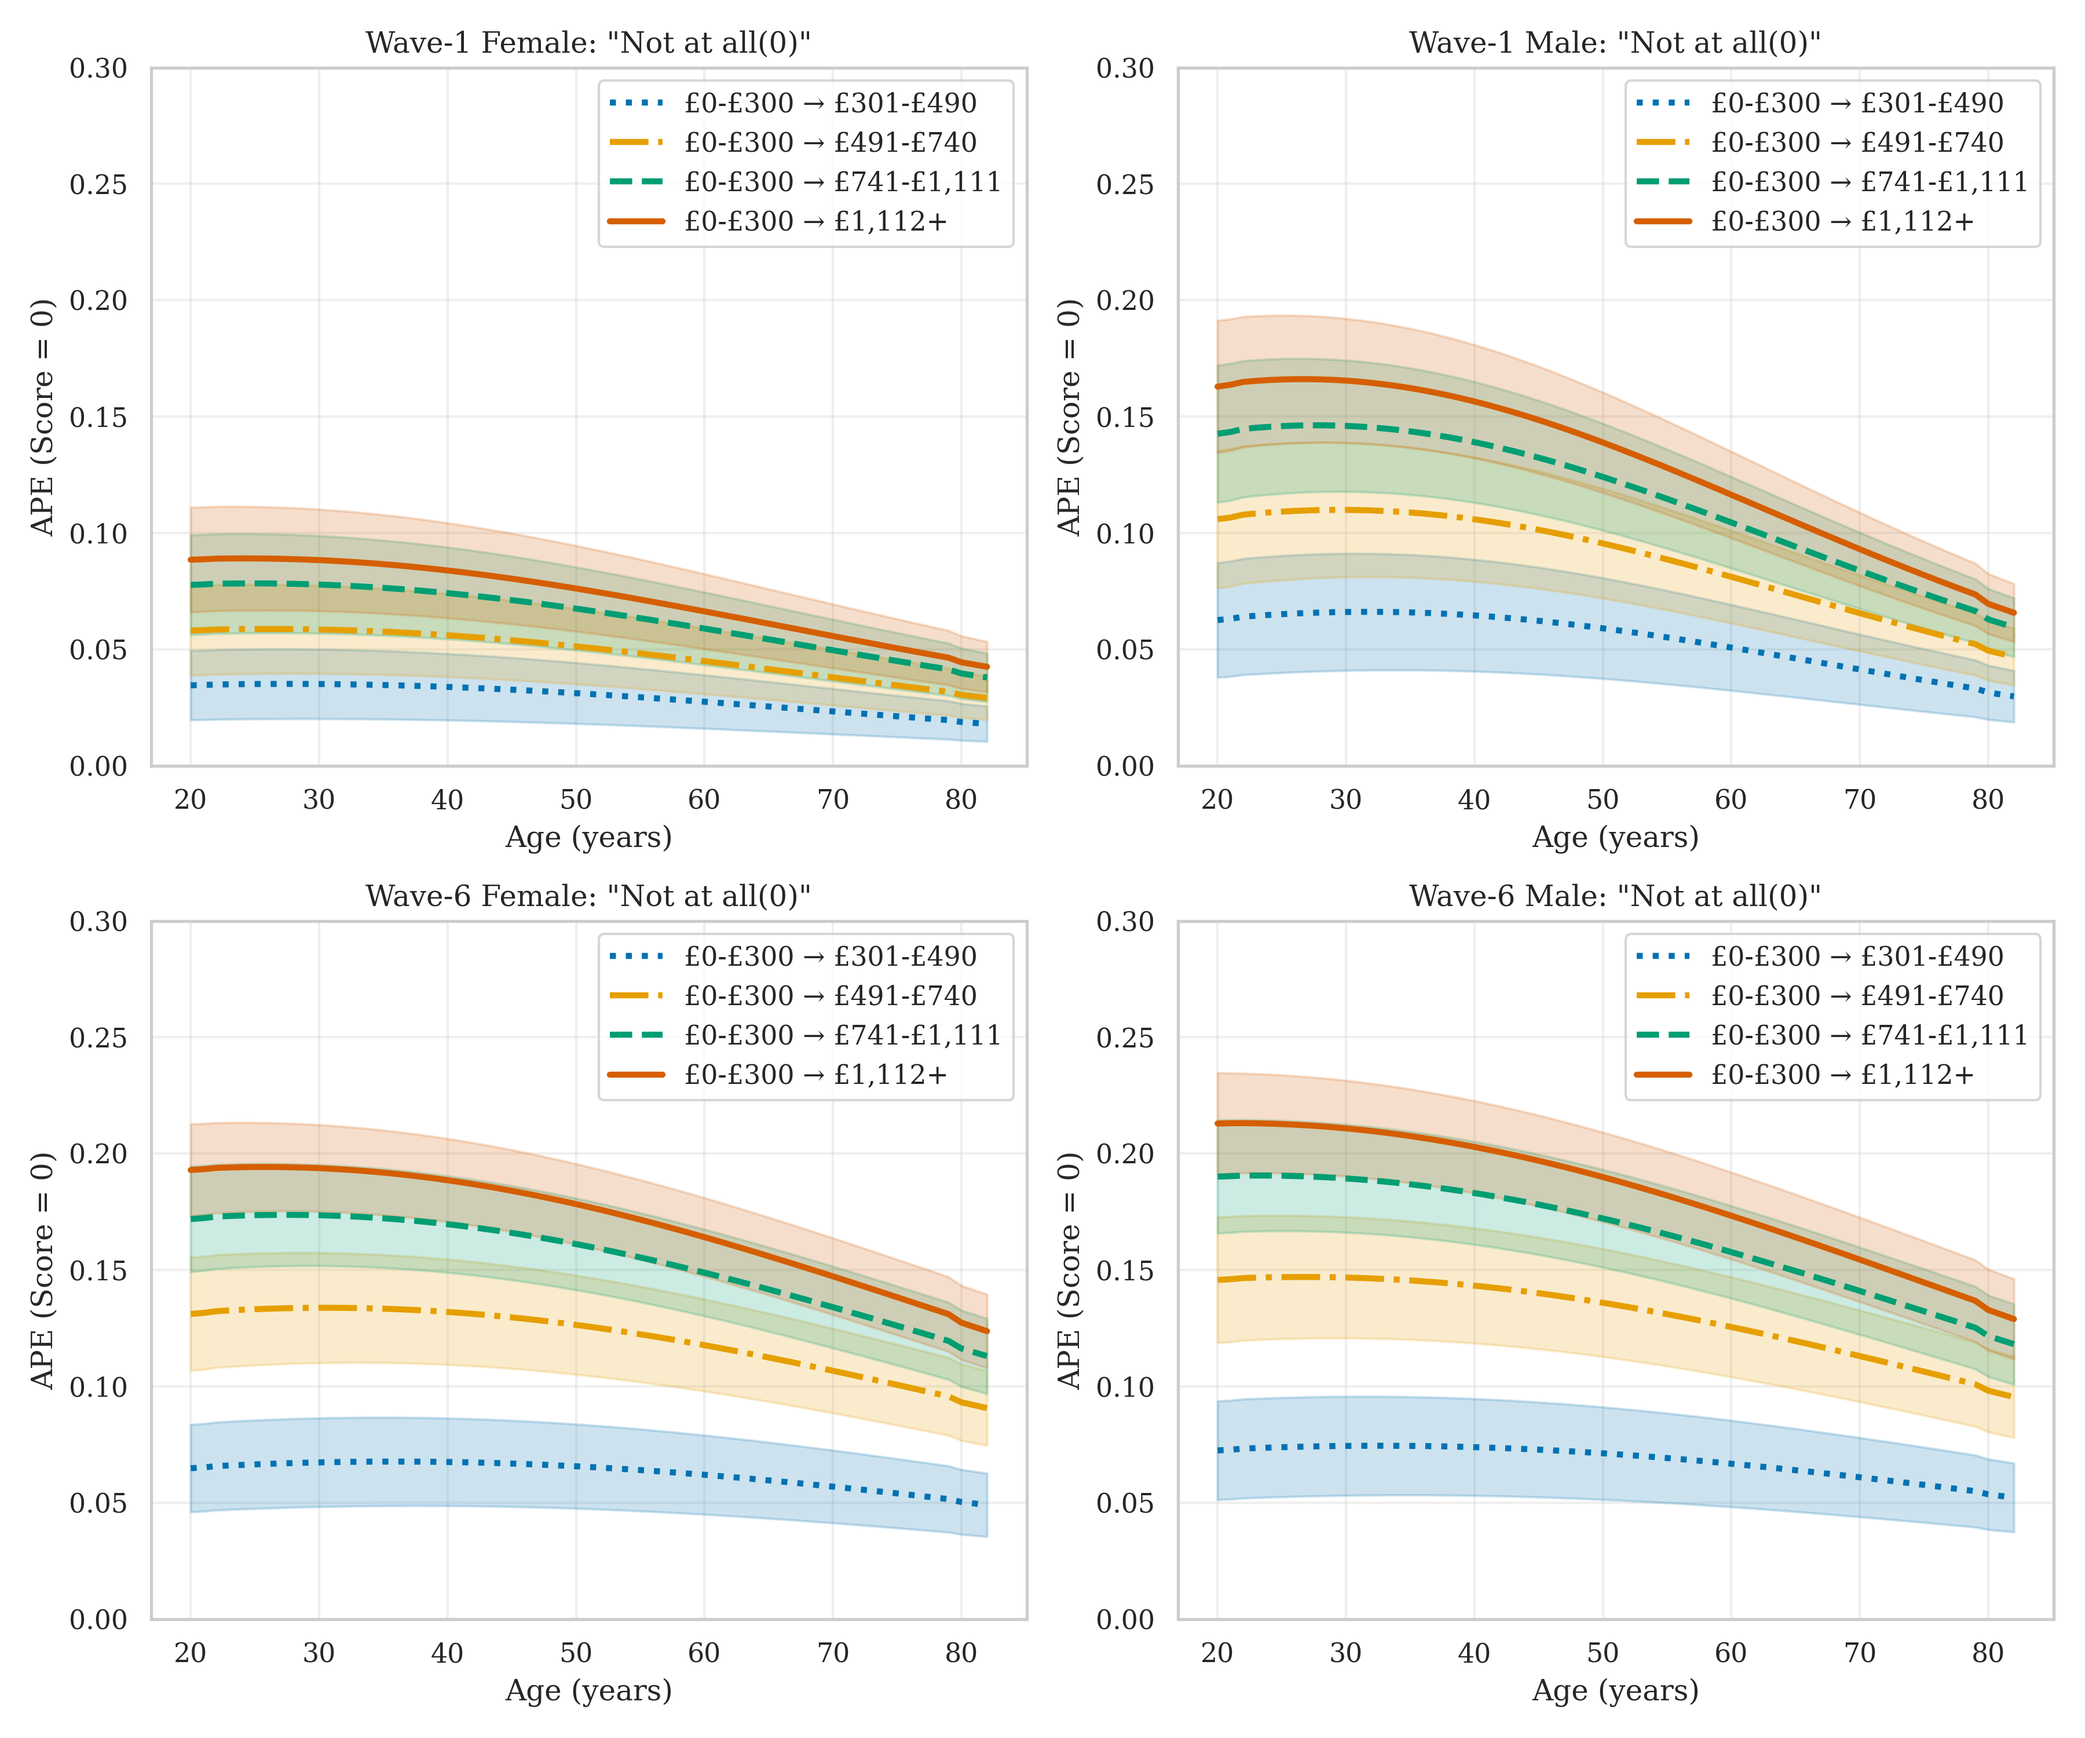
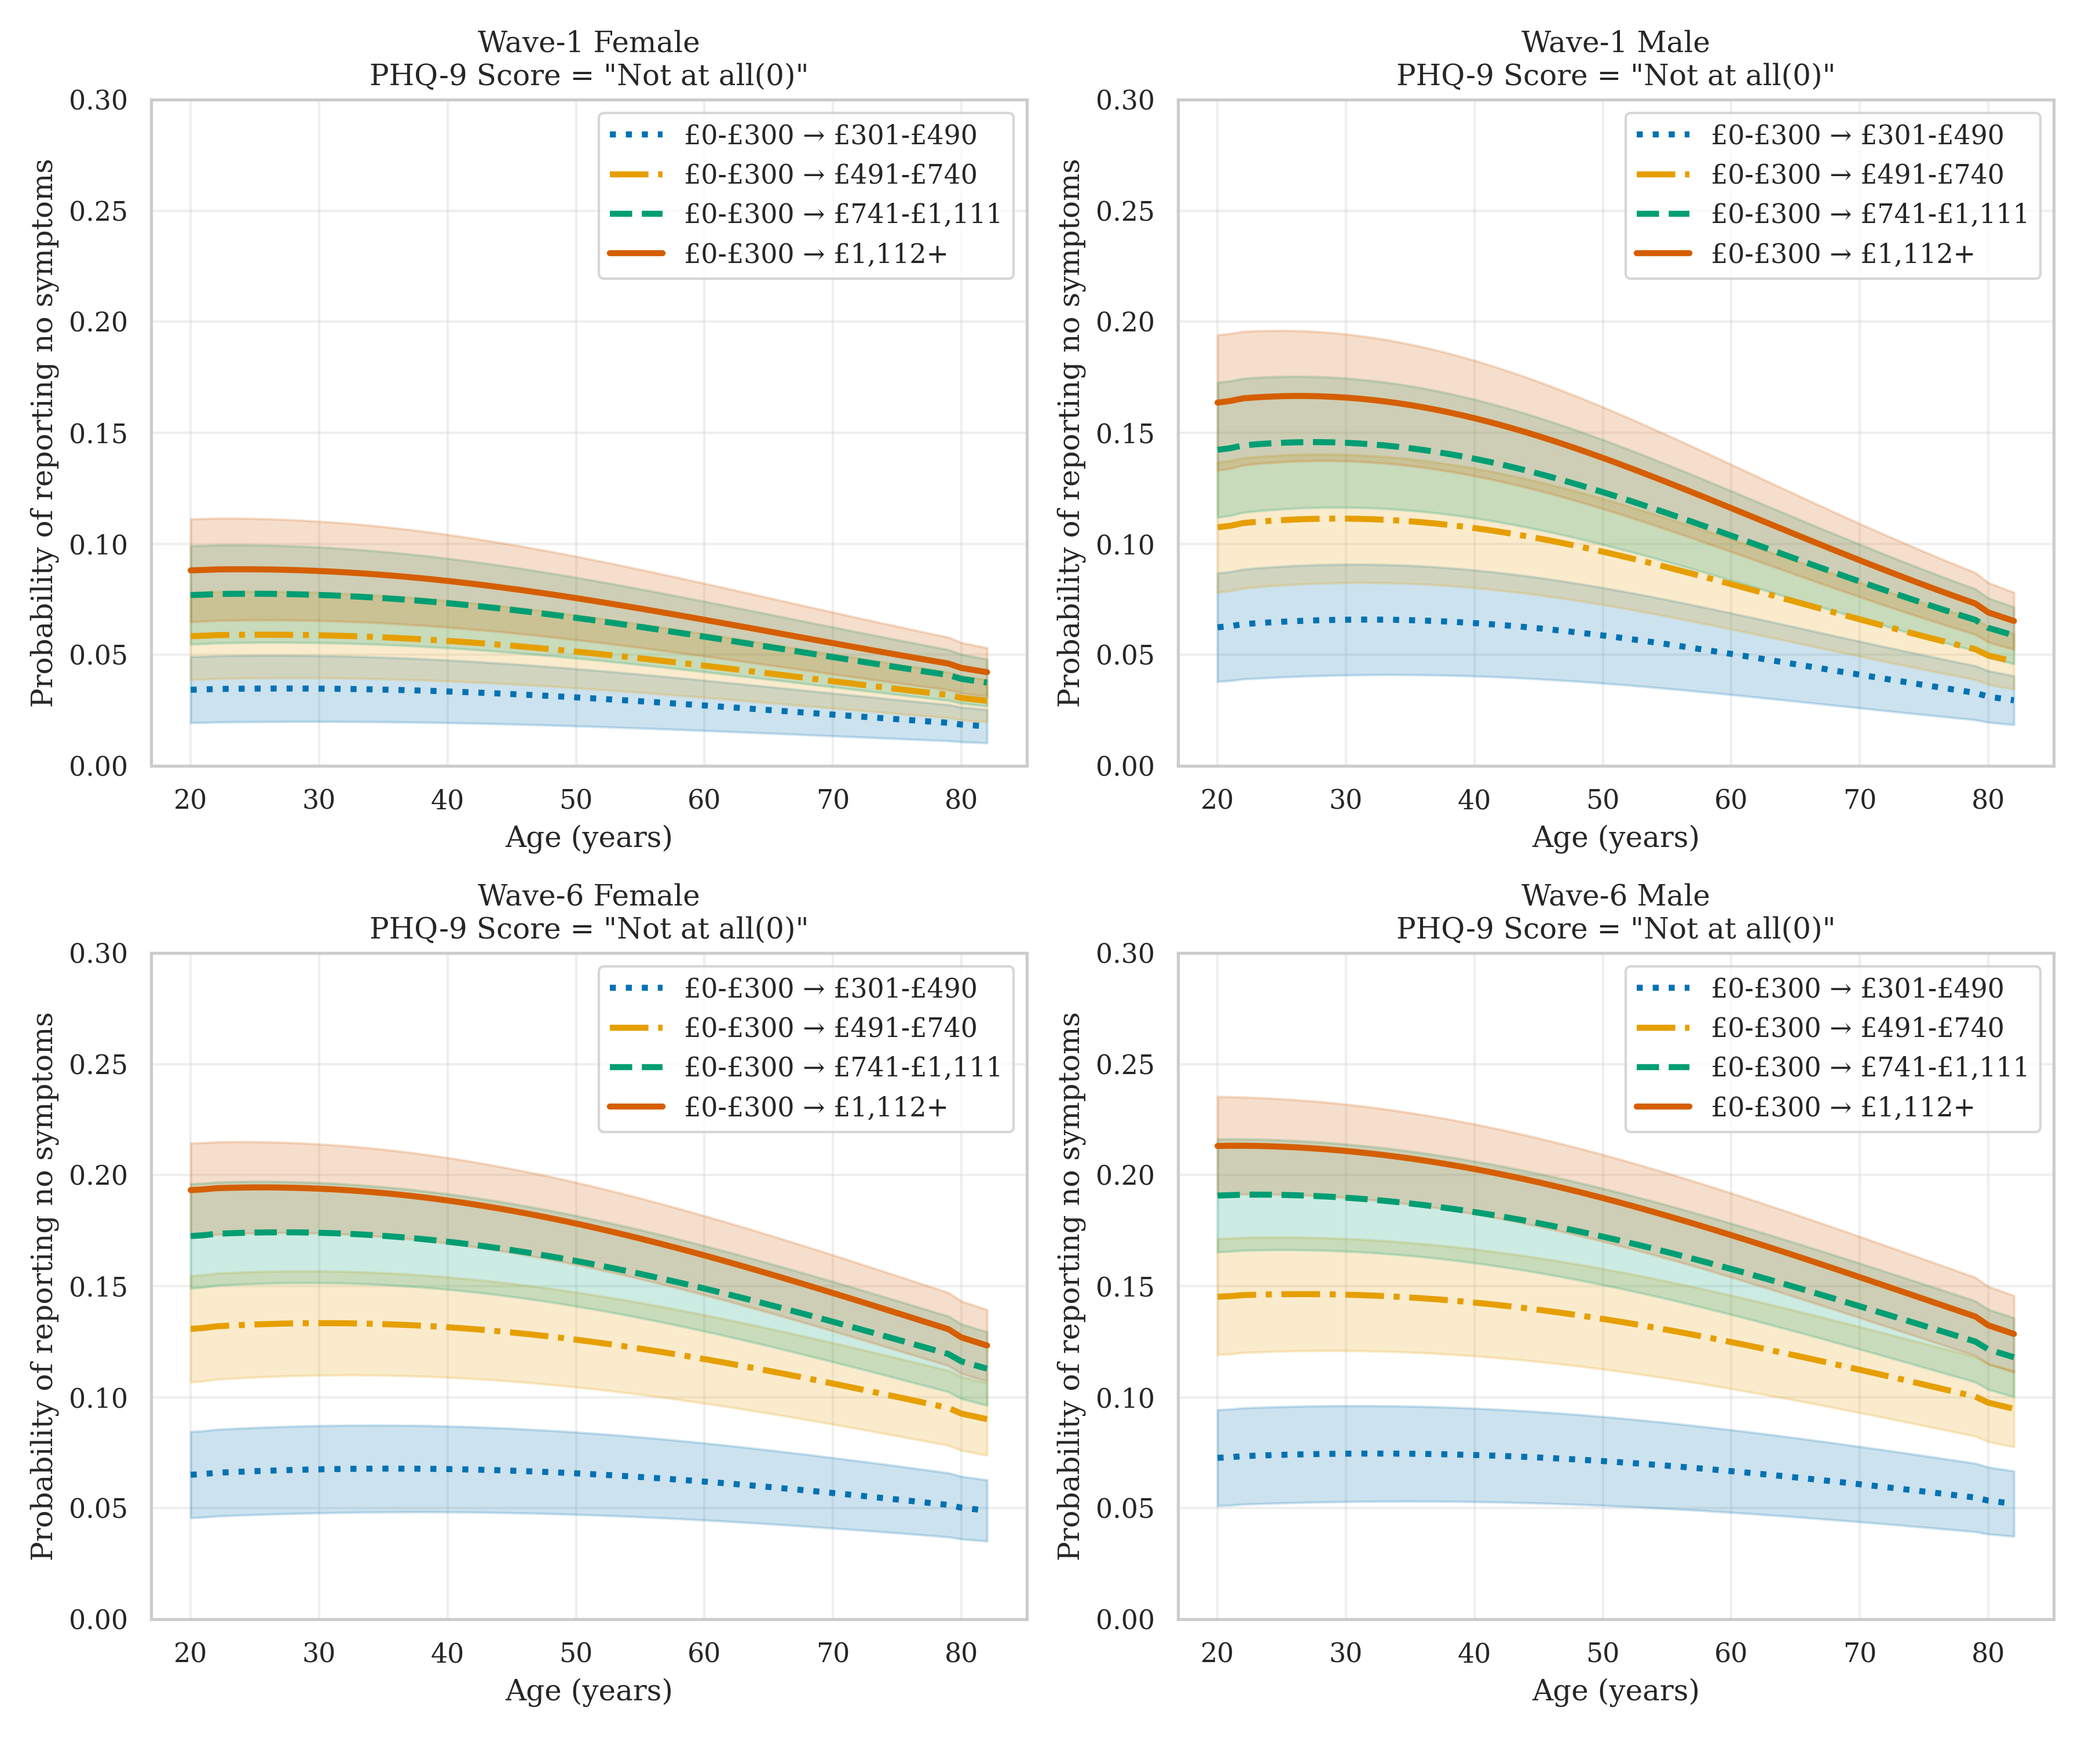
new readme

diff --git a/draw_dag.py b/draw_dag.py
@@ -1,0 +1,116 @@
+import matplotlib.pyplot as plt
+import networkx as nx
+import numpy as np
+from matplotlib.patches import FancyArrowPatch
+
+# Set serif fonts globally
+plt.rcParams['font.family'] = "DeJavu Serif"
+plt.rcParams['font.serif'] = ["Cambria", "Times New Roman", "DejaVu Serif"]
+plt.rcParams['font.size'] = 26
+plt.rcParams['mathtext.fontset'] = 'custom'
+plt.rcParams['mathtext.rm'] = 'DejaVu Serif'
+plt.rcParams['mathtext.it'] = 'DejaVu Serif:italic'
+plt.rcParams['mathtext.bf'] = 'DejaVu Serif:bold'
+
+# Create the DAG
+G = nx.DiGraph()
+
+# Add nodes with custom attributes
+G.add_node("Age", color="#bbdefb", label="Age\n(x)")
+G.add_node("Income", color="#ffecb3", label="Income\n(ŵ)")
+G.add_node("Mental Health", color="#e1bee7", label="Mental\nHealth\n(ŷ)")
+
+# Set up the plot
+fig, ax = plt.subplots(figsize=(7, 5))
+pos = {'Age': [-0.1, -0.3],
+       'Income': [0.25, 0.],
+       'Mental Health': [1.1, -0.3]}
+
+# Define node properties
+node_size = 4000
+node_radius = 0.07
+
+# Draw nodes with colors
+node_colors = [G.nodes[n]['color'] for n in G.nodes()]
+nodes = nx.draw_networkx_nodes(G, pos, node_color=node_colors, 
+                               node_size=node_size, alpha=0.8, ax=ax)
+
+# Get the custom labels from node attributes
+node_labels = {node: G.nodes[node]['label'] for node in G.nodes()}
+text_items = nx.draw_networkx_labels(G, pos, labels=node_labels, 
+                                     font_weight='bold', 
+                                     font_family="serif", ax=ax)
+
+# Fixed function to create shortened arrow
+def create_arrow(start_pos, end_pos, radius, connection_rad=0.1):
+    # Calculate direction vector
+    dx = end_pos[0] - start_pos[0]
+    dy = end_pos[1] - start_pos[1]
+    dist = np.sqrt(dx*dx + dy*dy)
+    
+    if dist == 0:
+        return None
+    
+    # Normalize (FIXED: don't subtract 0.15 from dist)
+    dx_norm = dx / dist + 0.2
+    dy_norm = dy / dist  + 0.2
+    
+    # Shorten at both ends
+    shortened_start = (start_pos[0] + dx_norm * radius, 
+                       start_pos[1] + dy_norm * radius)
+    
+    shortened_end = (end_pos[0] - dx_norm * radius, 
+                     end_pos[1] - dy_norm * radius)
+    
+    # Create curved arrow
+    arrow = FancyArrowPatch(shortened_start, shortened_end,
+                            arrowstyle='->', 
+                            connectionstyle=f'arc3,rad={connection_rad}',
+                            color='black',
+                            linewidth=2,
+                            mutation_scale=30)
+    
+    return arrow
+
+# Create and add arrows
+arrows = []
+
+# Age -> Income
+arrow = create_arrow(pos['Age'], pos['Income'], node_radius, 0.1)
+if arrow:
+    ax.add_patch(arrow)
+    arrows.append(arrow)
+
+# Age -> Mental Health  
+arrow = create_arrow(pos['Age'], pos['Mental Health'], node_radius, 0.1)
+if arrow:
+    ax.add_patch(arrow)
+    arrows.append(arrow)
+
+# Income -> Mental Health
+arrow = create_arrow(pos['Income'], pos['Mental Health'], node_radius, 0.1)
+if arrow:
+    ax.add_patch(arrow)
+    arrows.append(arrow)
+
+# Draw edge labels with explicit serif font
+edge_labels = {
+    ('Age', 'Income'): ('a', (0.05, -0.15)),
+    ('Age', 'Mental Health'): ("c'", (0.4, -0.35)),
+    ('Income', 'Mental Health'): ('b', (0.7, -0.16))
+}
+
+for (u, v), (label, label_pos) in edge_labels.items():
+    ax.text(label_pos[0], label_pos[1], label,
+            fontsize=16, 
+            fontweight='bold', 
+            fontfamily='serif',
+            ha='center', 
+            va='center')
+
+ax.set_xlim(-0.2, 1.2)
+ax.set_ylim(-0.38, 0.05)
+ax.axis('off')
+plt.tight_layout()
+plt.savefig("DAG.png", dpi=600)
+plt.show()

diff --git a/anxiety_covid19_UK/plot_ame_continous.py b/anxiety_covid19_UK/plot_ame_continous.py
@@ -238,7 +238,7 @@ for i in range(I):
 
 plt.tight_layout()
 # plt.title("GAD-7 Score=0 Probabilities")
-plt.savefig("danxiety_effects_continous.png", dpi=300)
+plt.savefig("anxiety_effects_continous.png", dpi=300)
 plt.show()
 plt.close()
 
@@ -518,8 +518,8 @@ for k in range(S):
     ax1.fill_between(ages[0], m-s, m+s, color=colors[k], alpha=0.2)
     ax1.legend()
     ax1.grid(alpha=0.3)
-    ax1.set_title('Wave-1 Female: "Not at all(0)"')
-    ax1.set_ylabel("APE (Score = 0)")
+    ax1.set_title('Wave-1 Female\nGAD-7 Score = "Not at all(0)"')
+    ax1.set_ylabel("Probability of reporting no symptoms")
     ax1.set_xlabel("Age (years)")
     ax1.set_ylim(0, 0.3)
 
@@ -533,8 +533,8 @@ for k in range(S):
     ax2.fill_between(ages[0], m-s, m+s, color=colors[k], alpha=0.2)
     ax2.legend()
     ax2.grid(alpha=0.3)
-    ax2.set_title('Wave-1 Male: "Not at all(0)"')
-    ax2.set_ylabel("APE (Score = 0)")
+    ax2.set_title('Wave-1 Male\nGAD-7 Score = "Not at all(0)"')
+    ax2.set_ylabel("Probability of reporting no symptoms")
     ax2.set_xlabel("Age (years)")
     ax2.set_ylim(0, 0.3)
     
@@ -548,8 +548,8 @@ for k in range(S):
     ax3.fill_between(ages[1], m-s, m+s, color=colors[k], alpha=0.2)
     ax3.legend()
     ax3.grid(alpha=0.3)
-    ax3.set_title('Wave-6 Female: "Not at all(0)"')
-    ax3.set_ylabel("APE (Score = 0)")
+    ax3.set_title('Wave-6 Female\nGAD-7 Score = "Not at all(0)"')
+    ax3.set_ylabel("Probability of reporting no symptoms")
     ax3.set_xlabel("Age (years)")
     ax3.set_ylim(0, 0.3)
 
@@ -563,8 +563,8 @@ for k in range(S):
     ax4.fill_between(ages[1], m-s, m+s, color=colors[k], alpha=0.2)
     ax4.legend()
     ax4.grid(alpha=0.3)
-    ax4.set_title('Wave-6 Male: "Not at all(0)"')
-    ax4.set_ylabel("APE (Score = 0)")
+    ax4.set_title('Wave-6 Male\nGAD-7 Score = "Not at all(0)"')
+    ax4.set_ylabel("Probability of reporting no symptoms")
     ax4.set_xlabel("Age (years)")
     ax4.set_ylim(0, 0.3)
 

diff --git a/depression_covid19_UK/plot_ame_continous.py b/depression_covid19_UK/plot_ame_continous.py
@@ -518,8 +518,8 @@ for k in range(S):
     ax1.fill_between(ages[0], m-s, m+s, color=colors[k], alpha=0.2)
     ax1.legend()
     ax1.grid(alpha=0.3)
-    ax1.set_title('Wave-1 Female: "Not at all(0)"')
-    ax1.set_ylabel("APE (Score = 0)")
+    ax1.set_title('Wave-1 Female\nPHQ-9 Score = "Not at all(0)"')
+    ax1.set_ylabel("Probability of reporting no symptoms")
     ax1.set_xlabel("Age (years)")
     ax1.set_ylim(0, 0.3)
 
@@ -533,8 +533,8 @@ for k in range(S):
     ax2.fill_between(ages[0], m-s, m+s, color=colors[k], alpha=0.2)
     ax2.legend()
     ax2.grid(alpha=0.3)
-    ax2.set_title('Wave-1 Male: "Not at all(0)"')
-    ax2.set_ylabel("APE (Score = 0)")
+    ax2.set_title('Wave-1 Male\nPHQ-9 Score = "Not at all(0)"')
+    ax2.set_ylabel("Probability of reporting no symptoms")
     ax2.set_xlabel("Age (years)")
     ax2.set_ylim(0, 0.3)
     
@@ -548,8 +548,8 @@ for k in range(S):
     ax3.fill_between(ages[1], m-s, m+s, color=colors[k], alpha=0.2)
     ax3.legend()
     ax3.grid(alpha=0.3)
-    ax3.set_title('Wave-6 Female: "Not at all(0)"')
-    ax3.set_ylabel("APE (Score = 0)")
+    ax3.set_title('Wave-6 Female\nPHQ-9 Score = "Not at all(0)"')
+    ax3.set_ylabel("Probability of reporting no symptoms")
     ax3.set_xlabel("Age (years)")
     ax3.set_ylim(0, 0.3)
 
@@ -563,8 +563,8 @@ for k in range(S):
     ax4.fill_between(ages[1], m-s, m+s, color=colors[k], alpha=0.2)
     ax4.legend()
     ax4.grid(alpha=0.3)
-    ax4.set_title('Wave-6 Male: "Not at all(0)"')
-    ax4.set_ylabel("APE (Score = 0)")
+    ax4.set_title('Wave-6 Male\nPHQ-9 Score = "Not at all(0)"')
+    ax4.set_ylabel("Probability of reporting no symptoms")
     ax4.set_xlabel("Age (years)")
     ax4.set_ylim(0, 0.3)
 

diff --git a/README.md b/README.md
@@ -1,4 +1,96 @@
-<h1> Income and mental health re-visited: exploring effects of household income on self-reported mental heath measures during the COVID-19 pandemic. </h1>
+# Bayesian Mediation Analysis with Ordinal Variables from: Exploring the effects of household income on self-reported mental health measures during the COVID-19 pandemic via a Bayesian causal model 
 
-<p> In this repository you will find code to reproduce our results, complete summaries, and additional plots and information. </p>
+This repository implements a Bayesian mediation model examining whether household income mediates the relationship between age and mental helath symptoms (GAD-7 scores, and PHQ-9 scores), with variation by gender and across questionnaire items. Here we present part of the analysis on anxiety as an example. 
 
+## Model Structure
+
+### Variables
+- **Age** (standardized): Predictor variable $X$
+- **Income**: Mediator variable $M$ (ordinal with 7 levels)
+- **GAD-7 scores**: Outcome variable $Y$ (ordinal with 4 levels: 0-3)
+- **Gender**: Stratifying variable
+- **Question**: Questionnaire item (allowing for item-specific effects)
+
+### Mathematical Specification
+
+#### Mediator Model (Income ~ Age)
+For individual $i$ with gender $g[i]$:
+
+$$\text{Income}_i \sim \text{OrderedLogistic}(\eta_i^M, \kappa^M)$$
+
+$$\eta_i^M = \alpha_{g[i]}^M + a_{g[i]} \cdot \text{Age}_i$$
+
+where:
+- $\alpha_g^M$: Gender-specific intercepts
+- $a_g$: Gender-specific effect of age on income (path **a**)
+- $\kappa^M$: Cutpoints for income categories
+
+#### Outcome Model (GAD-7 ~ Age + Income)
+For individual $i$ with gender $g[i]$ and question $q[i]$:
+
+$$\text{GAD-7}_i \sim \text{OrderedLogistic}(\eta_i^Y, \kappa_{q[i]}^Y)$$
+
+$$\eta_i^Y = \alpha_{g[i], q[i]}^Y + c_{g[i], q[i]} \cdot \text{Age}_i + \beta_{g[i], q[i], \text{Income}_i}$$
+
+where:
+- $\alpha_{g,q}^Y$: Gender- and question-specific intercepts
+- $c_{g,q}$: Direct effect of age on GAD-7 (path **c'**)
+- $\beta_{g,q,k}$: Effect of income level $k$ on GAD-7 (path **b**), with monotonic ordering constraint
+
+#### Monotonic Income Effects
+Income effects $\beta_{g,q,k}$ are constrained to be monotonic across income levels:
+
+$$\beta_{g,q,1} \leq \beta_{g,q,2} \leq ... \leq \beta_{g,q,7}$$
+
+This is implemented via a cumulative parameterization using a Dirichlet prior on the increments between levels.
+
+#### Mediation Effects
+- **Indirect effect**: $\text{IE}_{g,q,k} = a_g \times \beta_{g,q,k}$
+- **Direct effect**: $c_{g,q}$
+- **Total effect**: $\text{TE}_{g,q,k} = c_{g,q} + a_g \times \beta_{g,q,k}$
+
+### Priors
+All parameters are assigned weakly informative priors, with hierarchical structure for intercepts and slopes using non-centered parameterization:
+
+$$\begin{align*}
+\alpha_{g}^M, \alpha_{g,q}^Y, a_g, c_{g,q}, \beta_{g,q,k} &\sim \text{Normal}(\mu_{\text{pooled}}, \sigma_{\text{pooled}}) \\
+\mu_{\text{pooled}} &\sim \text{Normal}(0, 1) \\
+\sigma_{\text{pooled}} &\sim \text{HalfNormal}(1)
+\end{align*}$$
+
+Cutpoints are given ordered Normal priors, and income increments are given a Dirichlet prior.
+
+## Results
+
+
+<img src="./anxiety_covid19_UK/effects_Wave1.png" alt="Mediation Effects by Gender and Income Level"  width="70%"  />
+
+The figure shows posterior distributions (means and 90% HDIs) for key model parameters:
+
+- **A**: Effect of age on income distribution (path a). Age has minimal impact on income category, with estimates near zero for both genders.
+
+- **B**: Average marginal effects of age on anxiety scores, averaged across question. 
+
+- **C**: Average discrete effects of income on anxiety scores, averaged across question and showing increase/decrease from lowest to highest income level.
+
+- **D**: Average discrete effects of income on anxiety scores, averaged across question and showing change from lowest to every other income level for score=0. 
+
+
+## Implementation
+
+The model is implemented in PyMC using:
+- `OrderedLogistic` distributions for ordinal outcomes
+- Non-centered parameterization for hierarchical effects
+- Deterministic calculations of indirect and total effects
+
+## Requirements
+
+- Python 3.8+
+- PyMC 5.0+
+- ArviZ
+- Matplotlib
+- NumPy/Pandas
+
+## Citation
+
+If you use this code or methodology, please cite this repository.
